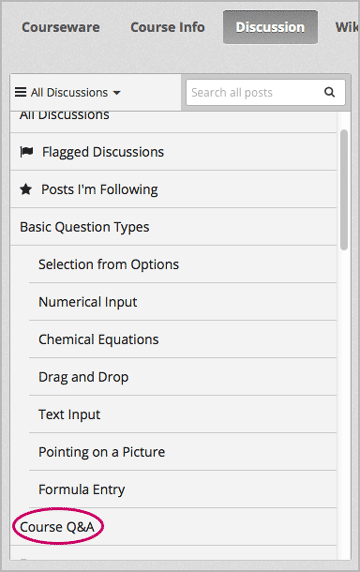
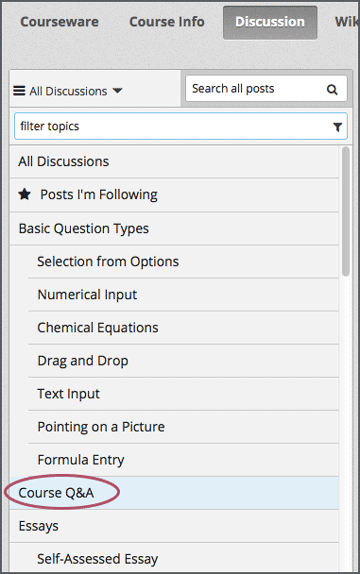
Image cleanup, changes for consistency

Changed region(s): [[0.0, 0.0, 1.0, 1.0], [0.0917, 0.4458, 0.5194, 0.4755]]

diff --git a/docs/en_us/course_authors/source/running_course/discussions_students.rst b/docs/en_us/course_authors/source/running_course/discussions_students.rst
@@ -145,8 +145,8 @@ press Enter, the search tries to find:
   level.
 
 * Any usernames that are an exact match to your text. A "Show posts by
-  {username}" option displays above any posts that have an exact match at any
-  interaction level. Click the username in the message to read that user's
+  {username}" option displays above any posts that have an exact text match at
+  any interaction level. Click the username in the message to read that user's
   posts, responses, and comments.
 
 ==============================================
@@ -295,21 +295,21 @@ identify posts that are new, or that have responses or comments that you have
 not read yet, and to distinguish them from exchanges that you have already read
 completely.
 
-* Posts that you have not read yet have a blue dialog "bubble".
+* Posts that you have not read yet have a blue callout image.
 
 * Posts with responses or comments that you have not read yet have a white
-  dialog "bubble".
+  callout image.
  
-* Exchanges that you have read completely have a gray dialog "bubble" and
+* Exchanges that you have read completely have a gray callout image and
   background.
 
  .. image:: ../Images/Discussion_colorcoding.png
-  :alt: The list of posts with posts showing differently colored backgrounds and bubble icons
+  :alt: The list of posts with posts showing differently colored backgrounds and callout images
 
-These color-coded dialog bubbles appear when you sort the list of posts by
+These color-coded callout images appear when you sort the list of posts by
 recent activity or by most activity. If you sort the list of posts by most
 votes instead, the number of votes that the post has received appears in place
-of the bubble icon. See :ref:`Vote for Posts or Responses`.
+of the callouts. See :ref:`Vote for Posts or Responses`.
 
 ==============================
 Receive Daily Digests

diff --git a/docs/en_us/course_authors/source/running_course/discussions.rst b/docs/en_us/course_authors/source/running_course/discussions.rst
@@ -64,7 +64,7 @@ history.
 .. _Organizing_discussions:
 
 *************************************************
-Set Up Discussions for Your Course
+Set Up Discussion Topics for Your Course
 *************************************************
 
 Discussions in an edX course include both the specific topics that you add to
@@ -77,11 +77,12 @@ Add Units With a Discussion Component
 ============================================
 
 Typically, all units are added during the design and creation of your course in
-Studio. To add a discussion component to a unit, follow the instructions in
-:ref:`Working with Discussion Components`.
+Studio. To add a discussion topic to a unit, you add a discussion component.
+Follow the instructions in :ref:`Working with Discussion Components`.
 
-This type of discussion is subject to the release date of the section that
-contains it. Students cannot contribute to these discussions until that date.
+This type of discussion topic is subject to the release date of the section
+that contains it. Students cannot contribute to these discussion topics until
+that date.
 
 =====================================
 Create Course-Wide Discussion Topics

diff --git a/docs/en_us/course_authors/source/getting_started/glossary.rst b/docs/en_us/course_authors/source/getting_started/glossary.rst
@@ -160,7 +160,7 @@ D
  
 **Discussion**
 
-  The set of topics defined to promote course-wide or unit-specific dialogue.
+  The set of topics defined to promote course-wide or unit-specific dialog.
   Students use the discussion topics to communicate with each other and the
   course staff in threaded exchanges.
 
